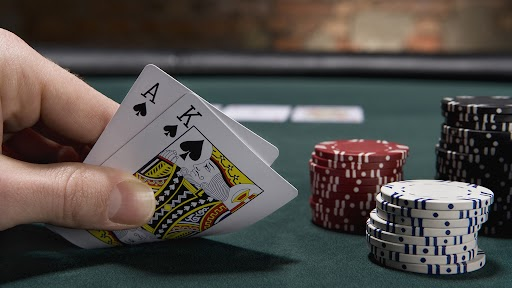
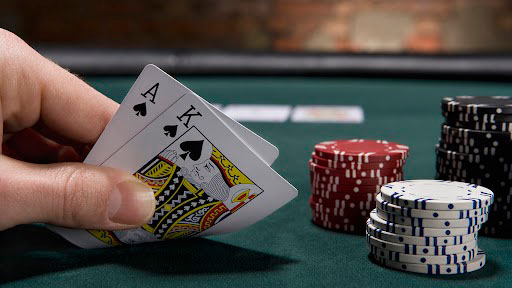
Bl.a. optimerat bilder

diff --git a/dropdown/statistik.html b/dropdown/statistik.html
@@ -35,8 +35,8 @@
        </header>
        
         <div class="main">
-            <h1>Statestik</h1>
-            <p>Text</p>
+            <h1>Statistik</h1>
+            <p>Här ska det finnas statistik om blackjack</p>
        </div>
     </div>
 

diff --git a/style.css b/style.css
@@ -33,7 +33,7 @@ a:hover {
 
 body {
     margin: 0;
-    background-image: url("bilder/bakgrundoptimeradjpg.jpg");
+    background-image: url("bilder/bakgrund.jpg");
     background-size: cover;
     background-attachment: fixed; /* gör bakgrunden statisk */
     background-position: center;